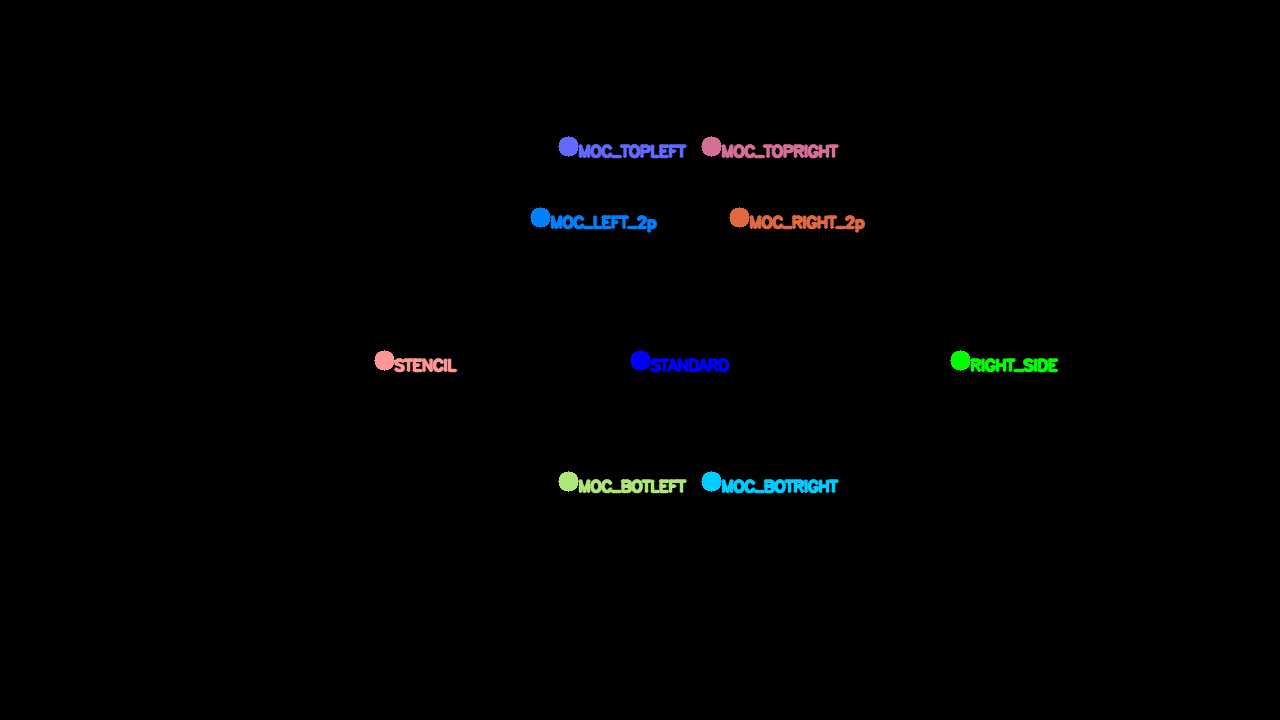
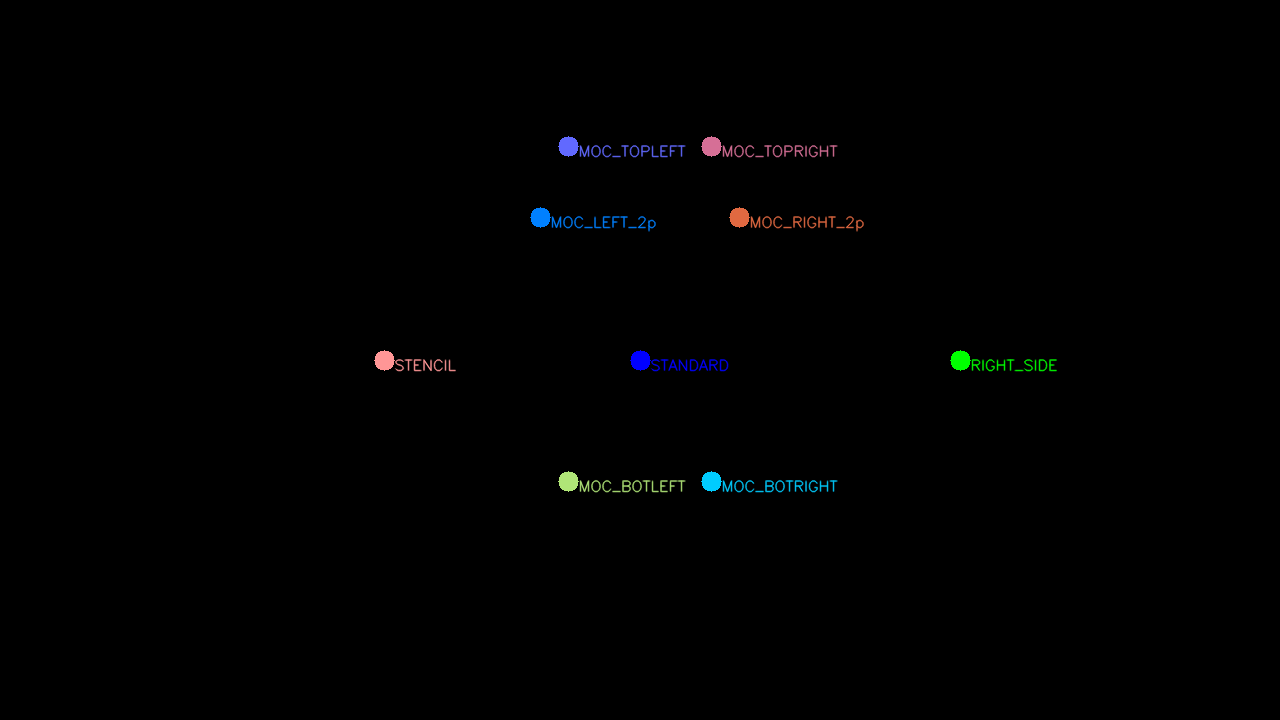
new: Add full docs on how field and previews work

diff --git a/calibrate/autolayout.py b/calibrate/autolayout.py
@@ -4,6 +4,7 @@ Helper classes for autocalibration
 import cv2  # Not actually necessary if you just want to create an image.
 import numpy as np
 from colors import COLOR_CYCLE
+
 class AbstractLayout:
     def __init__(self, name, inner_box):
         self.name = name
@@ -141,33 +142,82 @@ LAYOUTS = {"STANDARD": Layout("Standard", (0.5,0.5),
                               PREVIEW_LAYOUTS["MOC4pRight"],FIELD_INNER_BOX["MOC"]) #ctwc 4p
           }
 
+def generate_generic_layouts():
+    result = {}
+    for x in [0.1,0.20,0.37,0.7,0.85]:
+        for y in [0.3, 0.65]:
+            layout = Layout("Generic", (x, y),
+                            PREVIEW_LAYOUTS["MOC"], FIELD_INNER_BOX["MOC"])
+            result[f"{x}, {y}"] = layout
+    return result
+
+GENERIC_LAYOUTS = generate_generic_layouts()
+
+def color_layout(image, layout, color, layout_name, RES):
+    color.reverse # rgb <-> bgr
+    center = layout.fillpoint
+    center = int(center[0] * RES[1]), int(center[1] * RES[0])
+    image = cv2.circle(image, center, 10, color, -1)
+    center = center[0] + 10, center[1] + 10
+    image = cv2.putText(image, layout_name, center, cv2.FONT_HERSHEY_SIMPLEX, 
+                0.5, color, 1, cv2.LINE_AA)
+    return image
 
 def generate_documentation_fields():
     RES = [720, 1280]
     # make rgb image
     image = np.zeros(RES + [3], np.uint8)
-    THICKNESS = 2
+    
+    #for name, layout in GENERIC_LAYOUTS.items():
+    #    image = color_layout(image, layout, [64,64,64], name,  RES)
 
-    for index, layout_name in enumerate(LAYOUTS.keys()):
-        layout = LAYOUTS[layout_name]
-        color = COLOR_CYCLE[index]
-        color.reverse # rgb <-> bgr
-        center = layout.fillpoint
-        center = int(center[0] * RES[1]), int(center[1] * RES[0])
-        image = cv2.circle(image, center, 10, color, -1)
-        center = center[0] + 10, center[1] + 10
-        image = cv2.putText(image, layout_name, center, cv2.FONT_HERSHEY_SIMPLEX, 
-                   0.5, color, 2, cv2.LINE_AA)
-    cv2.imshow("hi", image)
+    for index, (name, layout) in enumerate(LAYOUTS.items()):
+        color = COLOR_CYCLE[index % len(COLOR_CYCLE)]
+        image = color_layout(image, layout, color, name, RES)
+
+    #cv2.imshow("hi", image)
     #cv2.waitKey(0)
     cv2.imwrite("docs/board_calibration/field-circles.png", image)
 
+
 def generate_documentation_previews():
-    pass
+    SCALE_MULT = 5
+    RES = [220 * SCALE_MULT, 220 * SCALE_MULT]
+
+    # make rgb image
+    image = np.zeros(RES + [3], np.uint8)
+    TL = [70 * SCALE_MULT, 40 * SCALE_MULT]
+    BR = [TL[0] + 80 * SCALE_MULT, TL[1] + 160 * SCALE_MULT]
+    cv2.rectangle(image, TL, BR, 
+                 (0,255,0), -1)
+
+    texts = []
+    for layout in PREVIEW_LAYOUTS.values():
+        offset = layout.nes_px_offset
+        size = layout.nes_px_size
+        tl = [TL[0] + offset[0]*SCALE_MULT, TL[1] + offset[1] * SCALE_MULT]
+        br = [tl[0] + size[0] * SCALE_MULT, tl[1] + size[1] * SCALE_MULT]
+        tl = [int(i) for i in tl]
+        br = [int(i) for i in br]
+        
+        cv2.rectangle(image, tl, br, (0,0,255,128), -1)
+        inner_rect = layout.inner_box_nespx
+        tl2 = [tl[0] + inner_rect[0]*SCALE_MULT, tl[1] + inner_rect[1] * SCALE_MULT]
+        br2 = [tl[0] + inner_rect[2]*SCALE_MULT, tl[1] + inner_rect[3] * SCALE_MULT]
+        tl2 = [int(i) for i in tl2]
+        br2 = [int(i) for i in br2]
+        cv2.rectangle(image, tl2, br2, (255,0,0,128), -1)
+        texts.append([image, layout.name, tl.copy()])
+    
+    for text in texts:
+        cv2.putText(*text, cv2.FONT_HERSHEY_SIMPLEX, 0.5, (255,255,255), 1, cv2.LINE_AA)
+
+    #cv2.imshow("hi", image)
+    #cv2.waitKey(0)
+    cv2.imwrite("docs/board_calibration/field-previews.png", image)
 
 # run this with
 # python -m calibrate.autolayout
 if __name__ == "__main__":
     generate_documentation_fields()
     generate_documentation_previews()
-        

diff --git a/docs/board_calibration/how-it-works.md b/docs/board_calibration/how-it-works.md
@@ -5,17 +5,23 @@ Finding a field
 Finding a field works by looking up a list of common layouts that we have hardcoded.
 We try to run a paint "fill" command on these points:
 
-
 ![fillpoints](field-circles.png)
 
-We pick the biggest rectangle. If there are multiple large similarly sized rectangles,
-then we show all of them and let the user pick which one.
+By running the fill command we can find rectangles (i.e field shapes). We ascertain that
+the shape we found is rectangular and has enough black in it (in case we filled an image border
+that ends up filling 90% of the screen but the majority of the area is background)
+
+Next, we pick the biggest rectangle . If there are multiple large similarly sized rectangles,
+then we show all of them and let the user pick which one. These rectangles represent
+the detected fields.
 
 Current problems:
 
 If the field is not connected to one of those points, we wont find it.
+This means if the layout isn't one of the listed above, and can't be
+flood filled by chance from one of the points, we won't find it.
 
-If the flood fill point is inside a tetris block, then the flood fill will fail,
+If the flood fill point is *inside* a tetris block, then the flood fill will fail,
 and the region identified will be too small.
 
 
@@ -23,6 +29,9 @@ Finding a preview
 ===
 Each of the fields from the previous stage have a "recommended" preview type,
 such as right side (classic nes tetris scene), top (Maxout club), side (maxout club).
+We try all preview types, starting with the recommended one.
+
+![preview](field-preview.png)
 
 We iterate through each of the offsets for those layouts, and again use a flood fill.
 We check the flood fills size to ensure it vaguely matches what we expect.
